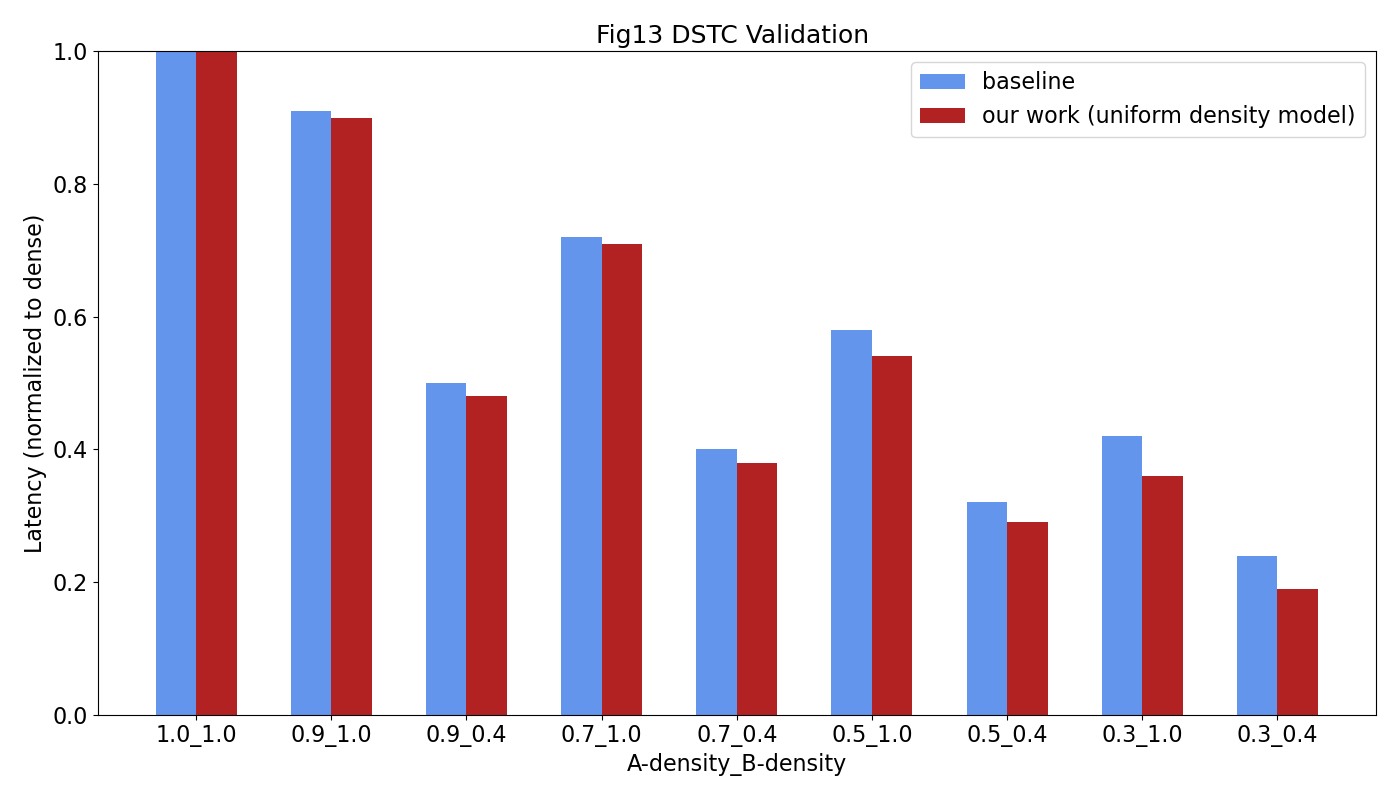
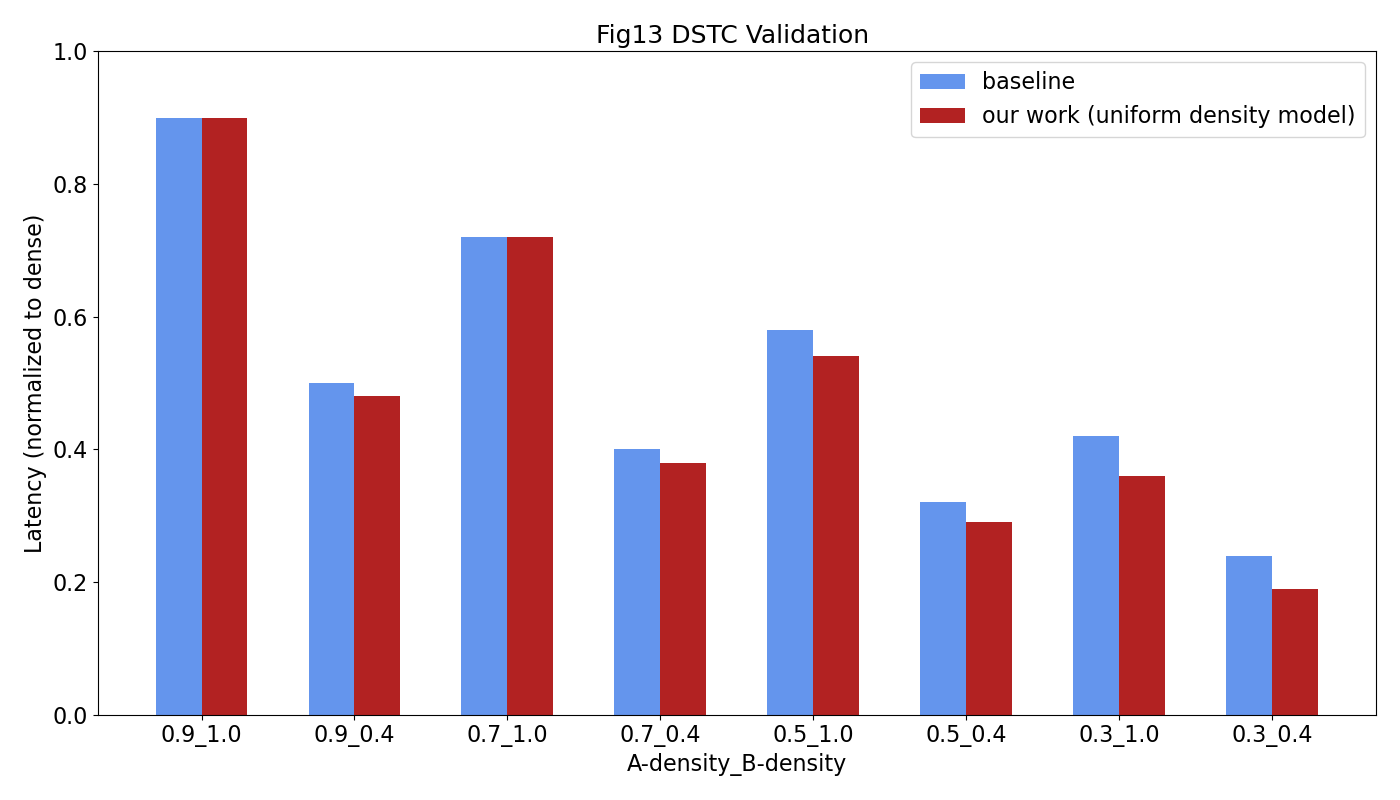
make plot axis identical to paper

Changed region(s): [[0.0921, 0.0625, 0.9521, 0.9375]]

diff --git a/workspace/2022.micro.artifact/evaluation_setups/fig13_dstc_setup/scripts/parse_and_plot.py b/workspace/2022.micro.artifact/evaluation_setups/fig13_dstc_setup/scripts/parse_and_plot.py
@@ -29,6 +29,8 @@ def plot(my_data, gt_data):
     total_mine = 0
     for A_density, val in my_data.items():
         for B_density, cycles in val.items():
+            if A_density == 1 and B_density == 1:
+                continue
             if A_density != 1 or (A_density == 1 and B_density == 1):
                 my_bars.append(round(cycles/dense_mine,2))
                 gt_bars.append(round(gt_data[A_density][B_density]/dense_gt,2))
@@ -85,7 +87,7 @@ def main():
             cycles = raw_stats["cycles"]
             stats[A_density][B_density] = cycles
 
-    ground_truth_data = yaml.load(open(os.path.join(this_directory, "ground_truth.yaml")), Loader = yaml.SafeLoader)
+    ground_truth_data = yaml.load(open(os.path.join(this_directory, "baseline.yaml")), Loader = yaml.SafeLoader)
     plot(stats, ground_truth_data)
 
 

diff --git a/workspace/2022.micro.artifact/evaluation_setups/fig13_dstc_setup/scripts/sweep.py b/workspace/2022.micro.artifact/evaluation_setups/fig13_dstc_setup/scripts/sweep.py
@@ -11,7 +11,7 @@ this_directory = os.path.dirname(this_file_path)
 
 # paths to important input specs
 problem_template_path = os.path.join(this_directory, "..", "input_specs", "prob.yaml")
-arch_path = os.path.join(this_directory, "..", "input_specs", "arch.yaml")
+arch_path = os.path.join(this_directory, "..", "input_specs", "architecture.yaml")
 component_path = os.path.join(this_directory, "..", "input_specs", "compound_components.yaml")
 mapping_path = os.path.join(this_directory, "..", "input_specs", "Os-mapping.yaml")
 sparse_opt_path = os.path.join(this_directory, "..",  "input_specs", "sparse-opt.yaml")
